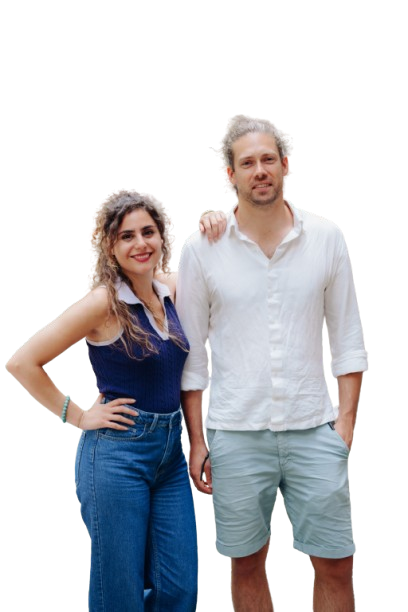
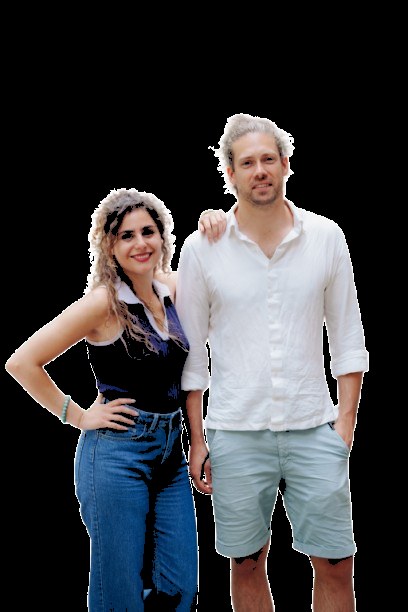
Make founders photo background pure black; add edge mask

diff --git a/style.css b/style.css
@@ -408,6 +408,8 @@ main {
   margin: 0 auto 64px;
   mix-blend-mode: screen;
   transform: translateY(-2cm);
+  -webkit-mask-image: radial-gradient(ellipse 75% 85% at 50% 50%, black 50%, transparent 100%);
+  mask-image: radial-gradient(ellipse 75% 85% at 50% 50%, black 50%, transparent 100%);
 }
 
 /* ── Team ── */